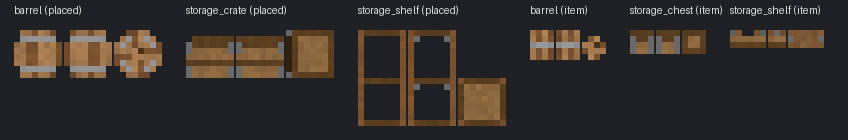
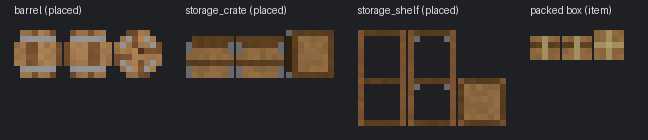
One-box rule (Alen, 2026-07-11) - every packed furniture item shares one generic rope-lashed plank crate (packed_furniture.glb, the ore one-shape rule applied to furniture); per-piece item minis removed, resources.json models unified, docs 19/61 updated

diff --git a/tools/generate_furniture_glbs.py b/tools/generate_furniture_glbs.py
@@ -2,10 +2,16 @@
 """
 Generate Deepdraft storage-furniture GLBs — doc 19 Phase 1.
 
-Three placed forms + three item forms (the doc 19 three-form model: the item
-form is the carryable drop dwarves fetch and haul; the placed form is what
-stands in the world; the GHOST is the placed form rendered translucent at
-runtime — no separate ghost asset).
+Three placed forms + ONE shared item form (the doc 19 three-form model: the
+item form is the carryable drop dwarves fetch and haul; the placed form is
+what stands in the world; the GHOST is the placed form rendered translucent
+at runtime — no separate ghost asset).
+
+ONE-BOX RULE (Alen, 2026-07-11 — the ore one-shape rule applied to
+furniture): EVERY packed furniture item uses the SAME generic box — a plank
+crate with rope lashing. At RTS zoom the box says "packed furniture"; the
+ghost you placed says which piece it becomes. All resources.json furniture
+item defs point at the single packed_furniture.glb.
 
 MATERIAL RULE (Alen, 2026-07-11 — doc 61 §1): furniture is WOODWORK. All three
 pieces are wood-bodied with iron accents; stone appears nowhere here.
@@ -27,7 +33,7 @@ DETERMINISM: fixed seed; every run regenerates byte-identical files.
 Outputs (paths must match data/furniture/*.json "model" and
 data/entities/items/resources.json "model" fields):
   assets/models/furniture/{barrel,storage_crate,storage_shelf}.glb   (placed)
-  assets/models/items/furniture/{barrel,storage_chest,storage_shelf}.glb (item)
+  assets/models/items/furniture/packed_furniture.glb                 (shared item)
 Review sheet: tmp/furniture_review/furniture_sheet.png
 """
 
@@ -166,30 +172,38 @@ def build_storage_shelf():
     return v
 
 
-# ── Item forms — mini versions (the carryable drop, ~half-block) ─────────────
+# ── Item form — ONE shared packed box (Alen, 2026-07-11) ─────────────────────
 
-def build_barrel_item():
-    return build_barrel(height=5, radii=[1.6, 1.9, 2.1, 1.9, 1.6], bands=(2,), bung=True)
-
-
-def build_chest_item():
-    return build_storage_chest(size=5, mini=True)
+ROPE = _c(0xA09060)   # doc 61 rope_natural
 
 
-def build_shelf_item():
-    """Flat bundle of shelf parts: two short posts lashed to plank slabs —
-    reads as 'shelf kit', not a shrunken shelf."""
+def build_packed_box():
+    """The generic packed-furniture crate: a stout plank box with rope
+    lashing crossing the top and sides — reads as "boxed goods in transit",
+    distinct from the iron-bracketed storage chest. ~5×4×5 voxels (well
+    inside a half-block), used by EVERY furniture item def."""
     rng = random.Random(SEED + 3)
     v = Voxels()
-    for y in (0, 1):                          # two stacked plank slabs 6×2×3
-        for x in range(-3, 3):
-            for z in range(-1, 2):
-                v.cells[(x, y, z)] = _wood_jitter(rng, PLANK if y else PLANK_DARK)
-    for x in (-2, 1):                          # two posts laid across the top
-        for z in range(-1, 2):
-            v.cells[(x, 2, z)] = _wood_jitter(rng, OAK_MID)
-    v.cells[(-3, 2, 0)] = IRON_DULL            # bracket fittings tied on
-    v.cells[(2, 2, 0)] = IRON_DULL
+    half = 2   # x/z in -2..2 (5 wide)
+    for x in range(-half, half + 1):
+        for z in range(-half, half + 1):
+            for y in range(0, 4):
+                seam = (y == 2)
+                v.cells[(x, y, z)] = _wood_jitter(rng, PLANK_DARK if seam else PLANK)
+    # Rope lashing: two crossing straps over the top and down the sides.
+    for x in range(-half, half + 1):
+        v.cells[(x, 3, 0)] = ROPE
+        v.cells[(x, 0, 0)] = _scale_c(ROPE, 0.85)
+    for z in range(-half, half + 1):
+        v.cells[(0, 3, z)] = ROPE
+        v.cells[(0, 0, z)] = _scale_c(ROPE, 0.85)
+    for y in range(0, 4):                      # straps down all four faces
+        v.cells[(-half, y, 0)] = ROPE
+        v.cells[(half, y, 0)] = ROPE
+        v.cells[(0, y, -half)] = ROPE
+        v.cells[(0, y, half)] = ROPE
+    # Knot on top where the straps cross.
+    v.cells[(0, 3, 0)] = _scale_c(ROPE, 1.12)
     return v
 
 
@@ -263,24 +277,20 @@ def main():
         ("storage_crate", build_storage_chest()),
         ("storage_shelf", build_storage_shelf()),
     ]
-    items = [
-        ("barrel", build_barrel_item()),
-        ("storage_chest", build_chest_item()),
-        ("storage_shelf", build_shelf_item()),
-    ]
+    box = build_packed_box()
 
     total = 0
     for name, vox in placed:
         size = write_glb(placed_dir / f"{name}.glb", name, mesh_from_voxels(vox), EXPORT_SCALE)
         print(f"  furniture/{name + '.glb':22s} {len(vox):4d} voxels  {size:6d} B")
         total += size
-    for name, vox in items:
-        size = write_glb(item_dir / f"{name}.glb", f"{name}_item", mesh_from_voxels(vox), EXPORT_SCALE)
-        print(f"  items/furniture/{name + '.glb':16s} {len(vox):4d} voxels  {size:6d} B")
-        total += size
+    size = write_glb(item_dir / "packed_furniture.glb", "packed_furniture",
+                     mesh_from_voxels(box), EXPORT_SCALE)
+    print(f"  items/furniture/packed_furniture.glb {len(box):4d} voxels  {size:6d} B")
+    total += size
 
     sheet = _sheet(
-        [(f"{n} (placed)", v) for n, v in placed] + [(f"{n} (item)", v) for n, v in items],
+        [(f"{n} (placed)", v) for n, v in placed] + [("packed box (item)", box)],
         root / "tmp" / "furniture_review" / "furniture_sheet.png")
     print(f"furniture set complete ({total / 1024:.1f} KB); review sheet -> {sheet}")
 

diff --git a/docs/00_dev_roadmap/19_containers_furniture.md b/docs/00_dev_roadmap/19_containers_furniture.md
@@ -404,6 +404,7 @@ this doc's build log.
 
 | Date | Steps | State |
 |---|---|---|
+| 2026-07-11 | **One-box rule (Alen: "all uninstalled furniture should look like a box" — keep it simple).** The per-piece item minis (mini barrel, mini crate, shelf kit) are replaced by ONE shared `packed_furniture.glb` — a rope-lashed plank crate (rope straps distinguish it from the iron-bracketed storage chest). All three resources.json furniture items point at it; the three old item GLBs deleted (orphaned .import files left for Godot to clean on rescan — never hand-touched). The ore §5.7 one-shape rule, applied to the furniture family: the box says "packed furniture", the ghost says which piece it becomes. Doc 61 §5.4 updated. | Implemented — verify by eye: spawn furniture items → three identical rope-lashed boxes; fetch/install/uninstall unchanged. |
 | 2026-07-11 | **Phase 3 (fetch-and-build + 📤 uninstall).** `Task.Type` gains first-class FETCH_BUILD (45 — SH placement-band-tops-restock) + UNINSTALL (40); `TaskManager.allocate_source_id()` (monotonic from 10M — the doc 18 debt paid); `task_config.json` gains `furniture` (build/uninstall_time_s 2.0). **Ghost = fifth work-source family:** ONE type-matched FETCH_BUILD lease posted only while a matching item is AVAILABLE (loose unreserved or in storage aggregates); wake sources drop_spawned + stockpile_changed, throttled 0.25 s in the controller (StockpileManager pattern). Fetch pull: loose-first (`nearest_loose_of_key`), else **storage withdraw** — `StockpileManager.withdraw_item` → `zone.withdraw_nearest` → `ItemDropManager.stored_node_at`/`withdraw_stored` (stored node re-enters the loose index PRE-RESERVED by the fetcher — no race window). Dwarf executor: reserve → walk → pick up (carry visual, heavy ×0.7 applied AT pickup) → walk to ghost → build swing → `complete_build` → the controller's shared `_install` (same path as DEV Instant Build); the carried item node is consumed. **📤 = InstalledFurnitureComponent** (sixth family): SH-parity toggle; flag posts ONE UNINSTALL lease (cancel-toggle cancels it; released leases stay counted; cancelled/failed leases re-post while flagged); dwarf walks to a walkable footprint-neighbour stand cell, teardown swing, `complete_uninstall` → shared teardown (occupancy freed, packed item drop spawns → ordinary hauling restocks). Windows: ghost shows waiting/needs state; installed window primary button is the 📤 toggle (DEV: Remove kept). Rule 12 wired into abort/sleep/DEV-interrupt for both arms (fetch drops the carried item; uninstall leaves the piece installed + flagged). Overlay: `uninstalling` count. | **VERIFIED in-engine by Alen, 2026-07-11** — after a false alarm: the first run showed dwarves ignoring ALL new tasks (no hauling, no uninstall response) with leases pending. Root cause: **stale Godot global class cache** — Phase 3 added a new `class_name` script (InstalledFurnitureComponent) and rewrote another outside the editor; the doc 16 reload lesson applies to ANY new class_name, not just `[autoload]` edits. **Project → Reload Current Project fixed everything**: fetch-and-build, 📤 uninstall, and zone hauling all confirmed working together. LESSON (session protocol): after a work session that adds new `class_name` scripts, reload the project before playtesting. Remaining micro-checks (zone withdraw, mid-carry interrupt, 📤 double-toggle) ride along in Phase 4/5 sessions. |
 | 2026-07-11 | **Phase 2 (ghost placement tool).** New `FurniturePlacementController` (scene node; sole reader of `data/furniture/*.json` — defs need `placement` + `item_key`, so trade_counter correctly skips) + `FurnitureGhostComponent` (Phase 3 grows it into the FETCH_BUILD work source). Tool: Build panel 📥 entries (label→key map in DockUI; announce `tool_requested("furniture")` then `activate_for(key)`), translucent placed-form cursor ghost (SH parity: real model, alpha 0.30, validity tint cyan/red), **R** rotates 90° (footprint W/D swap for future non-square pieces), height-field-march hover, per-cell validity (bounds, bedrock, water, NavGrid walkable, no zone/ghost/installed overlap — zone tool mirrors via `blocks_zone_cell` / `is_zone_cell`), `floor_wall` probes solid blocks behind the yaw-rotated back row. Confirmed ghosts persist non-solid + slice-culled. Windows: ghost (Cancel 📥 + **DEV: Instant Build** — shares `_install()` with the future fetch executor; occupancy boxes from `collision_regions`, yaw-swapped extents) and installed (**DEV: Remove** → drops the packed item). Click-select works with the tool off (A3 lesson, day one). Overlay `furniture:` row (ghosts/installed). Scene: controller node added to `debug_world.tscn`. Gotcha logged: GDScript `\U` escapes take SIX hex digits (not Python's eight) — 📥 embedded as literal chars instead. | **VERIFIED in-engine by Alen, 2026-07-11 ("phase 2 pass")** — with two same-day playtest revisions along the way: the why-invalid hint (note 2) and the ground-shelf decision (note 3). Phase 2 BANKED. |
 | 2026-07-11 | **Phases 0 + 1 (assets, data, DEV source).** `tools/generate_furniture_glbs.py` (items class, deterministic): placed forms `barrel` / `storage_crate` / `storage_shelf` — all wood + iron per the same-day material rule — and item forms (mini barrel, mini crate, "shelf kit" bundle); review sheet `tmp/furniture_review/furniture_sheet.png`. Data: `data/furniture/{barrel,storage_chest,storage_shelf}.json` (trade_counter schema + doc 19 fields `item_key`/`placement`/`yaw_steps`/`storage`; shelf carries 8 anchors + `anchor_scale` 0.5); `resources.json` gains the three packed-furniture items + `stockpile_furniture` tag; zone `DEFAULT_FILTER_TAGS` accepts it. DEV: "Spawn Furniture" button on the Storage Zone panel (`dev_spawn_furniture`, shared `_dev_spawn_mix`). Doc 61 §5.4 gains the shelf spec + chest container note. Overlay `furniture:` row deferred to Phase 2 (no controller to count yet — the row lands with the ghost tool). | **VERIFIED in-engine by Alen, 2026-07-11 ("works")** — packed items spawn, read at scale, and haul into zones like ordinary drops. Phases 0+1 BANKED. |

diff --git a/docs/60_asset_creation/61_voxel_art_guide.md b/docs/60_asset_creation/61_voxel_art_guide.md
@@ -494,7 +494,10 @@ shelf**: stored item GLBs sit on the 8 anchor points (4 per level, defined in
 WYSIWYG. **Model slated for hand-authoring by Alen**; the
 `tools/generate_furniture_glbs.py` version (which has a back panel) is the interim
 stand-in — remove the shelf from the generator output when the authored asset lands.
-The item form (a lashed "shelf kit" bundle) lives in `assets/models/items/furniture/`.
+**Item form: the shared packed box** (one-box rule, Alen 2026-07-11 — the §5.7 ore
+one-shape rule applied to furniture): every packed furniture item renders as the SAME
+rope-lashed plank crate, `assets/models/items/furniture/packed_furniture.glb`. The box
+says "packed furniture"; the ghost says which piece it becomes.
 
 ---
 
